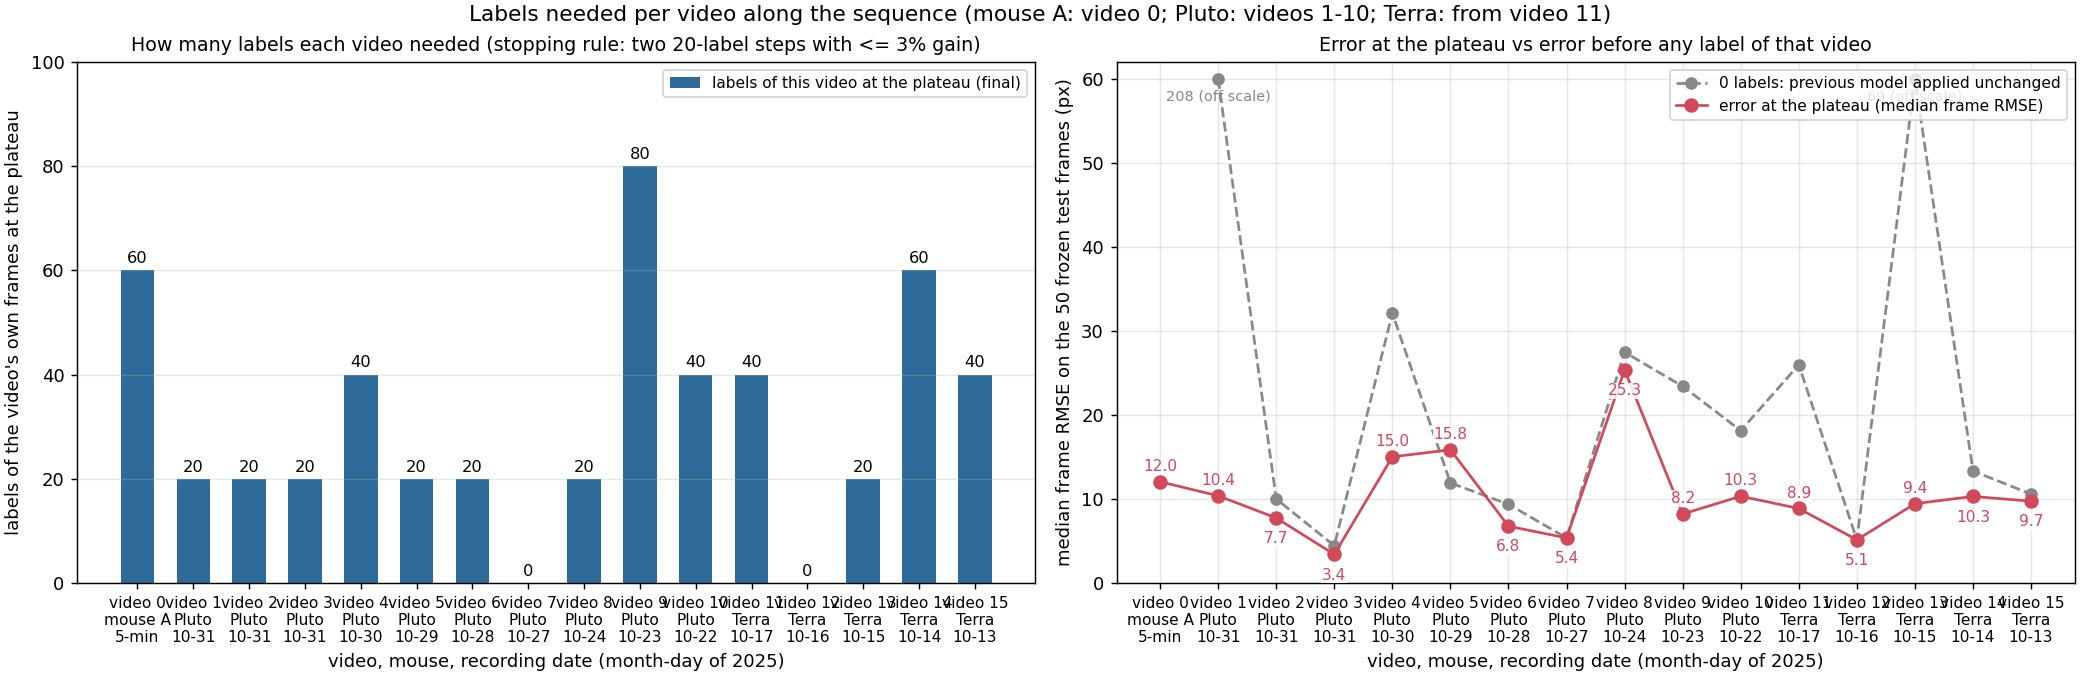
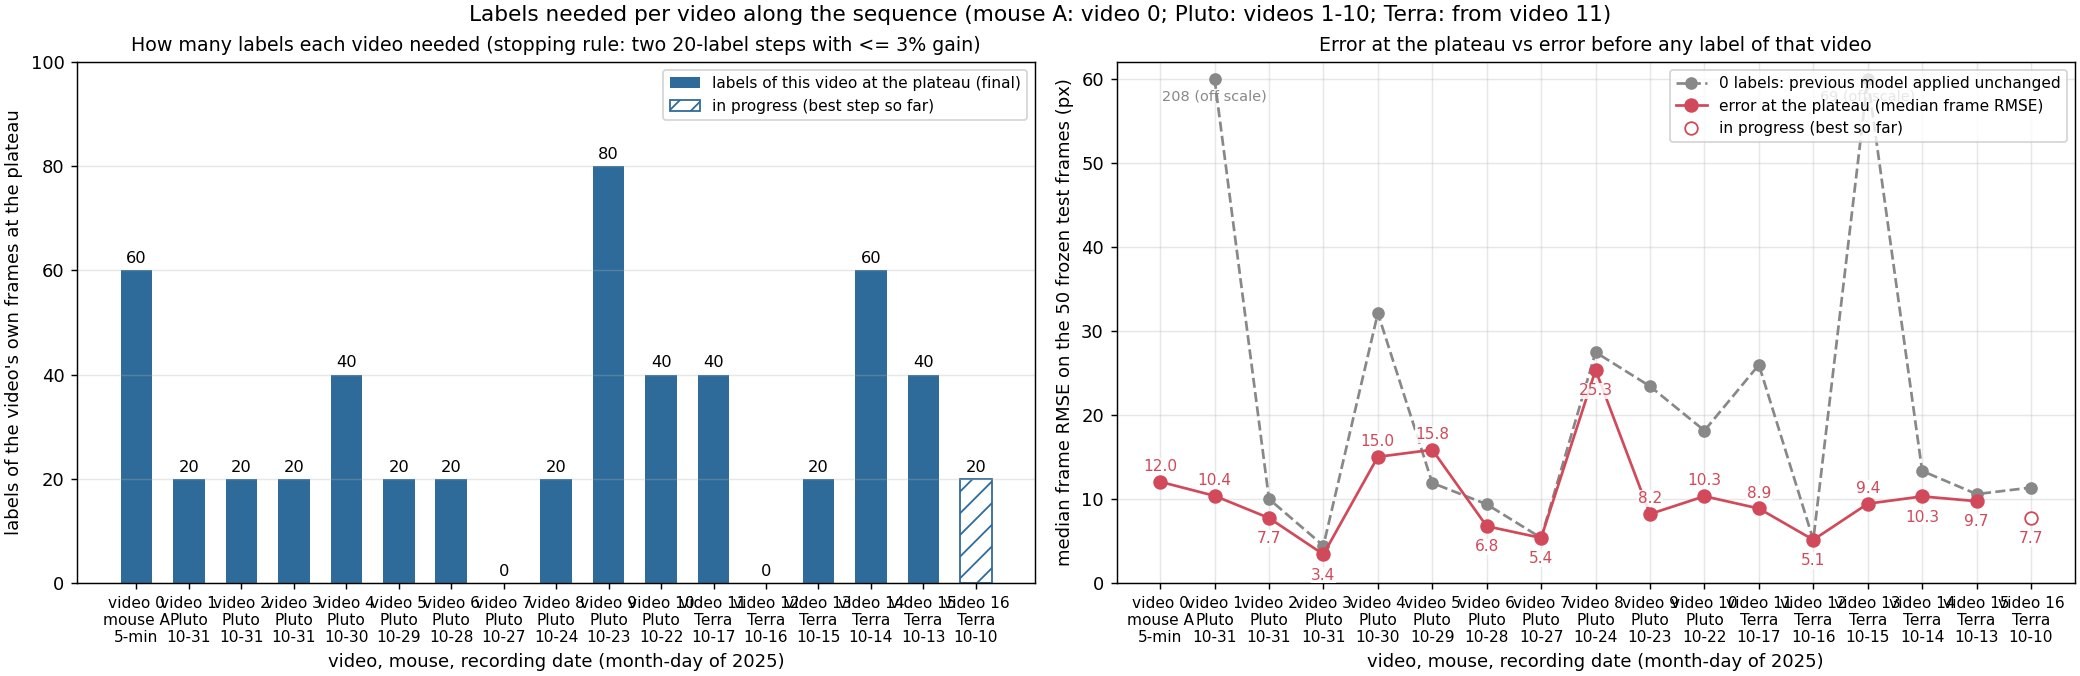
Summary page rebuilt with video 16 step 1

diff --git a/report/index.html b/report/index.html
@@ -78,7 +78,7 @@ math[display="block"]{margin:10px 0 6px;text-align:left;overflow-x:auto;max-widt
 
 <header>
   <h1><span lang="zh">小鼠眼睛关键点追踪：做了什么，结果是什么</span><span lang="en">Mouse eye keypoint tracking: what was done and what came out</span></h1>
-  <p class="muted small">Zhiheng Li (University of Minnesota), Kaiwen Sheng (Stanford) · <span lang="zh">页面生成时间</span><span lang="en">page built</span> 2026-10-08 21:08 · <a href="https://github.com/ZhihengLi0/mouse-behavior-tracking">GitHub: ZhihengLi0/mouse-behavior-tracking</a></p>
+  <p class="muted small">Zhiheng Li (University of Minnesota), Kaiwen Sheng (Stanford) · <span lang="zh">页面生成时间</span><span lang="en">page built</span> 2026-10-08 23:45 · <a href="https://github.com/ZhihengLi0/mouse-behavior-tracking">GitHub: ZhihengLi0/mouse-behavior-tracking</a></p>
 
   <div class="text" lang="zh">
     <p><b>任务：</b>用 DeepLabCut 在小鼠眼睛视频的每一帧上找 8 个点：瞳孔上、下、左、右，上眼睑、下眼睑，鼻侧眼角、颞侧眼角。由这 8 个点得到瞳孔大小、眼睛睁开程度和眨眼，之后与脑记录对齐。</p>
@@ -105,7 +105,7 @@ math[display="block"]{margin:10px 0 6px;text-align:left;overflow-x:auto;max-widt
       <li><b>瞳孔面积怎么算？</b>按 2026 年 9 月 20 日明确的定义，瞳孔四个点都是椭圆端点，在 16 个视频的 793 帧测试帧上，四点法的面积误差中位数是 5.8%，三点法是 7.8%；视频 4 和 8 上面积仍然不准（第 9 步）。</li>
       <li><b>眨眼怎么判断？</b>第一轮先定了定义：非睁眼 = 眼睛闭上或眼睑盖住部分瞳孔。按帧的规则"睁开高度 ÷ 眼宽 &lt; 0.347"（眼睑点失效时看瞳孔置信度）在 239 帧单帧盲评上准确率 91%。主要发现：7 个视频（3、4、8–12）有 26–70% 的时间眼睛不是完全睁开的，半掩是那些录像的常态；眨眼是其中的子集，细分放下一轮（第 10 步）。</li>
     </ol>
-    <p><b>进度：</b>已完成 16 个视频（视频 0–15）。</p>
+    <p><b>进度：</b>已完成 16 个视频（视频 0–15）；视频 16 进行中，按 0 / 20 / 40 / … 帧的误差为 11.35 / 7.72 px。</p>
   </div>
   <div class="text" lang="en">
     <p><b>Task:</b> DeepLabCut finds 8 points on every frame of a mouse-eye video: pupil top, bottom, left, right; upper and lower eyelid; nasal and temporal eye corner. From these we get pupil size, eye opening and blinks, to be aligned with brain recordings later.</p>
@@ -132,7 +132,7 @@ math[display="block"]{margin:10px 0 6px;text-align:left;overflow-x:auto;max-widt
       <li><b>How to compute the pupil area?</b> Under the definitions made explicit on 2026-09-20 all four pupil points are ellipse endpoints, and on the 793 test frames of 16 videos the four-point area has a median error of 5.8% against 7.8% for the three-point rule; on videos 4 and 8 the area is still not accurate (step 9).</li>
       <li><b>How to detect blinks?</b> The first round fixed a definition first: not open = the eye is closed or the lid covers part of the pupil. The per-frame rule "eye opening ÷ eye width &lt; 0.347" (pupil confidence when the eyelid points fail) is 91% accurate on 239 blind single frames. Main finding: in 7 videos (3, 4, 8–12) the eye is not fully open 26–70% of the time — a half-covered eye is the resting state of those recordings; blinks are a subset, and the finer classes come next (step 10).</li>
     </ol>
-    <p><b>Status:</b> 16 videos finished (videos 0–15).</p>
+    <p><b>Status:</b> 16 videos finished (videos 0–15); video 16 in progress, error at 0 / 20 / 40 / … labels: 11.35 / 7.72 px.</p>
   </div>
 
   <div class="text" lang="zh">
@@ -589,6 +589,7 @@ math[display="block"]{margin:10px 0 6px;text-align:left;overflow-x:auto;max-widt
       <div class="item"><img src="assets/scale_video13.jpg" alt="Video 13: error vs own labels" loading="lazy"><div class="cap"><span lang="zh">视频 13（Terra，2025-10-15）：平台点 20 帧，9.43 px</span><span lang="en">Video 13 (Terra, 2025-10-15): plateau at 20 labels, 9.43 px</span></div></div>
       <div class="item"><img src="assets/scale_video14.jpg" alt="Video 14: error vs own labels" loading="lazy"><div class="cap"><span lang="zh">视频 14（Terra，2025-10-14）：平台点 60 帧，10.30 px</span><span lang="en">Video 14 (Terra, 2025-10-14): plateau at 60 labels, 10.30 px</span></div></div>
       <div class="item"><img src="assets/scale_video15.jpg" alt="Video 15: error vs own labels" loading="lazy"><div class="cap"><span lang="zh">视频 15（Terra，2025-10-13）：平台点 40 帧，9.73 px</span><span lang="en">Video 15 (Terra, 2025-10-13): plateau at 40 labels, 9.73 px</span></div></div>
+      <div class="item"><img src="assets/scale_video16.jpg" alt="Video 16: error vs own labels" loading="lazy"><div class="cap"><span lang="zh">视频 16（Terra，2025-10-10）：进行中</span><span lang="en">Video 16 (Terra, 2025-10-10): in progress</span></div></div>
     </div></div>
     <figcaption lang="zh"><span class="tag">图 5-3 怎么看：</span>每个视频自己的曲线排成一行，从视频 0 到最新的视频，可以左右拖动；每张图下面注明视频、老鼠、日期和平台点。三幅小图的读法以视频 9 为例。左图：横轴是这个视频自己的标注帧数，纵轴是误差；20 帧 10.4 px，40 帧 8.6 px，80 帧 8.2 px，之后两步（9.4、8.6 px）都没有再改善，规则在 120 帧触发，平台点记为 80 帧。中图：8 个点各自的误差，瞳孔下点（蓝）最难。右图：不需要标注的指标，紫线是整段视频里被跳动规则标出的帧的比例，随标注增加从 18% 降到 9%。</figcaption>
     <figcaption lang="en"><span class="tag">Figure 5-3, how to read:</span>The curves of every video in one row, from video 0 to the newest; scroll sideways. Under each figure: video, mouse, date and plateau point. How to read the three panels, with video 9 as the example. Left: x = this video's own labels, y = error; 10.4 px at 20 labels, 8.6 px at 40, 8.2 px at 80, then two steps without a gain (9.4, 8.6 px), so the rule fired at 120 and the plateau point is 80. Middle: error of each of the 8 points; pupil bottom (blue) is the hardest. Right: label-free signals; the purple line is the share of video frames flagged by the jump rule, falling from 18% to 9% as labels are added.</figcaption>
@@ -628,6 +629,7 @@ math[display="block"]{margin:10px 0 6px;text-align:left;overflow-x:auto;max-widt
 <tr><td>13</td><td>Terra<br>2025-10-15</td><td>580</td><td>69.13 / 9.43 / 9.44 / 9.67</td><td><span lang="zh"><b>20 帧，9.43 px</b></span><span lang="en"><b>20 labels, 9.43 px</b></span></td><td>60</td><td>20</td></tr>
 <tr><td>14</td><td>Terra<br>2025-10-14</td><td>600</td><td>13.33 / 10.83 / 12.41 / 10.30 / 10.45 / 10.24</td><td><span lang="zh"><b>60 帧，10.30 px</b></span><span lang="en"><b>60 labels, 10.30 px</b></span></td><td>100</td><td>60</td></tr>
 <tr><td>15</td><td>Terra<br>2025-10-13</td><td>660</td><td>10.57 / 11.42 / 9.73 / 9.61 / 10.24</td><td><span lang="zh"><b>40 帧，9.73 px</b></span><span lang="en"><b>40 labels, 9.73 px</b></span></td><td>80</td><td>40</td></tr>
+<tr><td>16</td><td>Terra<br>2025-10-10</td><td>700</td><td>11.35 / 7.72</td><td><span lang="zh">进行中（目前最好：20 帧，7.72 px）</span><span lang="en">in progress (best so far: 20 labels, 7.72 px)</span></td><td>20</td><td>–</td></tr>
       </tbody>
     </table>
   </div>

diff --git a/report/index_en.html b/report/index_en.html
@@ -75,7 +75,7 @@ math[display="block"]{margin:10px 0 6px;text-align:left;overflow-x:auto;max-widt
 
 <header>
   <h1><span lang="en">Mouse eye keypoint tracking: what was done and what came out</span></h1>
-  <p class="muted small">Zhiheng Li (University of Minnesota), Kaiwen Sheng (Stanford) · <span lang="en">page built</span> 2026-10-08 21:08 · <a href="https://github.com/ZhihengLi0/mouse-behavior-tracking">GitHub: ZhihengLi0/mouse-behavior-tracking</a></p>
+  <p class="muted small">Zhiheng Li (University of Minnesota), Kaiwen Sheng (Stanford) · <span lang="en">page built</span> 2026-10-08 23:45 · <a href="https://github.com/ZhihengLi0/mouse-behavior-tracking">GitHub: ZhihengLi0/mouse-behavior-tracking</a></p>
 
   
   <div class="text" lang="en">
@@ -103,7 +103,7 @@ math[display="block"]{margin:10px 0 6px;text-align:left;overflow-x:auto;max-widt
       <li><b>How to compute the pupil area?</b> Under the definitions made explicit on 2026-09-20 all four pupil points are ellipse endpoints, and on the 793 test frames of 16 videos the four-point area has a median error of 5.8% against 7.8% for the three-point rule; on videos 4 and 8 the area is still not accurate (step 9).</li>
       <li><b>How to detect blinks?</b> The first round fixed a definition first: not open = the eye is closed or the lid covers part of the pupil. The per-frame rule "eye opening ÷ eye width &lt; 0.347" (pupil confidence when the eyelid points fail) is 91% accurate on 239 blind single frames. Main finding: in 7 videos (3, 4, 8–12) the eye is not fully open 26–70% of the time — a half-covered eye is the resting state of those recordings; blinks are a subset, and the finer classes come next (step 10).</li>
     </ol>
-    <p><b>Status:</b> 16 videos finished (videos 0–15).</p>
+    <p><b>Status:</b> 16 videos finished (videos 0–15); video 16 in progress, error at 0 / 20 / 40 / … labels: 11.35 / 7.72 px.</p>
   </div>
 
   
@@ -467,6 +467,7 @@ math[display="block"]{margin:10px 0 6px;text-align:left;overflow-x:auto;max-widt
       <div class="item"><img src="assets/scale_video13.jpg" alt="Video 13: error vs own labels" loading="lazy"><div class="cap"><span lang="en">Video 13 (Terra, 2025-10-15): plateau at 20 labels, 9.43 px</span></div></div>
       <div class="item"><img src="assets/scale_video14.jpg" alt="Video 14: error vs own labels" loading="lazy"><div class="cap"><span lang="en">Video 14 (Terra, 2025-10-14): plateau at 60 labels, 10.30 px</span></div></div>
       <div class="item"><img src="assets/scale_video15.jpg" alt="Video 15: error vs own labels" loading="lazy"><div class="cap"><span lang="en">Video 15 (Terra, 2025-10-13): plateau at 40 labels, 9.73 px</span></div></div>
+      <div class="item"><img src="assets/scale_video16.jpg" alt="Video 16: error vs own labels" loading="lazy"><div class="cap"><span lang="en">Video 16 (Terra, 2025-10-10): in progress</span></div></div>
     </div></div>
     
     <figcaption lang="en"><span class="tag">Figure 5-3, how to read:</span>The curves of every video in one row, from video 0 to the newest; scroll sideways. Under each figure: video, mouse, date and plateau point. How to read the three panels, with video 9 as the example. Left: x = this video's own labels, y = error; 10.4 px at 20 labels, 8.6 px at 40, 8.2 px at 80, then two steps without a gain (9.4, 8.6 px), so the rule fired at 120 and the plateau point is 80. Middle: error of each of the 8 points; pupil bottom (blue) is the hardest. Right: label-free signals; the purple line is the share of video frames flagged by the jump rule, falling from 18% to 9% as labels are added.</figcaption>
@@ -506,6 +507,7 @@ math[display="block"]{margin:10px 0 6px;text-align:left;overflow-x:auto;max-widt
 <tr><td>13</td><td>Terra<br>2025-10-15</td><td>580</td><td>69.13 / 9.43 / 9.44 / 9.67</td><td><span lang="en"><b>20 labels, 9.43 px</b></span></td><td>60</td><td>20</td></tr>
 <tr><td>14</td><td>Terra<br>2025-10-14</td><td>600</td><td>13.33 / 10.83 / 12.41 / 10.30 / 10.45 / 10.24</td><td><span lang="en"><b>60 labels, 10.30 px</b></span></td><td>100</td><td>60</td></tr>
 <tr><td>15</td><td>Terra<br>2025-10-13</td><td>660</td><td>10.57 / 11.42 / 9.73 / 9.61 / 10.24</td><td><span lang="en"><b>40 labels, 9.73 px</b></span></td><td>80</td><td>40</td></tr>
+<tr><td>16</td><td>Terra<br>2025-10-10</td><td>700</td><td>11.35 / 7.72</td><td><span lang="en">in progress (best so far: 20 labels, 7.72 px)</span></td><td>20</td><td>–</td></tr>
       </tbody>
     </table>
   </div>
